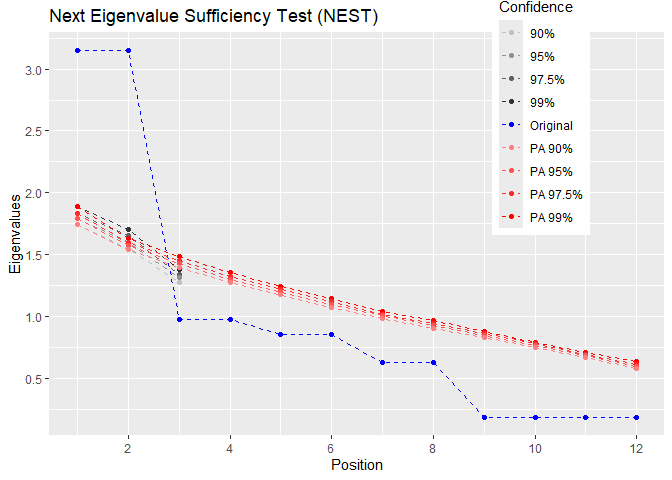
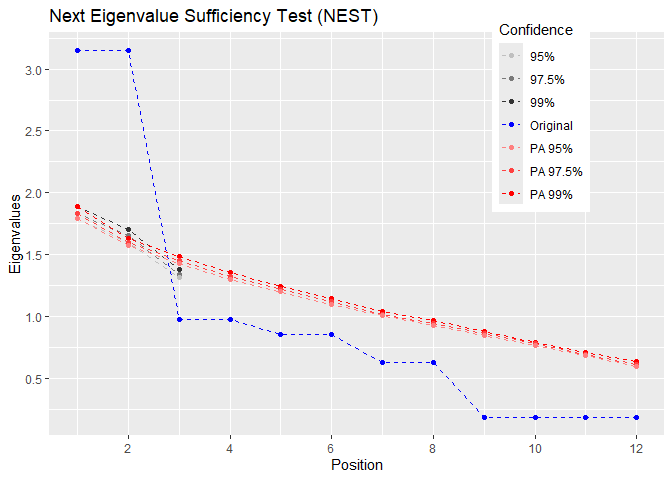
Version 1.1

diff --git a/README.md b/README.md
@@ -85,7 +85,7 @@ summary(res)
 ```
 
     ## 
-    ## nest 1.0 ended normally  
+    ## nest 1.1 ended normally  
     ##  
     ##    Estimator                       ML 
     ##    Missing data treatment          FIML 
@@ -148,7 +148,7 @@ parallel analysis results if desired.
 <p align="center">
 
 ``` r
-res <- nest(ex_4factors_corr, n = 120, alpha = c(.01,.025,.05,.1))
+res <- nest(ex_4factors_corr, n = 120, alpha = c(.01,.025,.05))
 plot(res, pa = TRUE)
 ```
 
@@ -178,7 +178,7 @@ ex_3factors_doub_unique %>%
   plot(pa = TRUE)
 ```
 
-<img src="README_files/figure-gfm/unnamed-chunk-1-1.png" style="display: block; margin: auto;" />
+<img src="README_files/figure-gfm/tidynest-1.png" style="display: block; margin: auto;" />
 
 # How to cite
 
